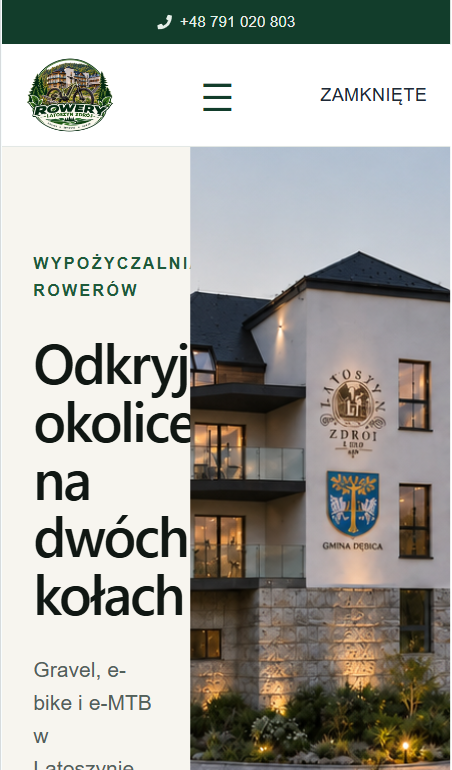
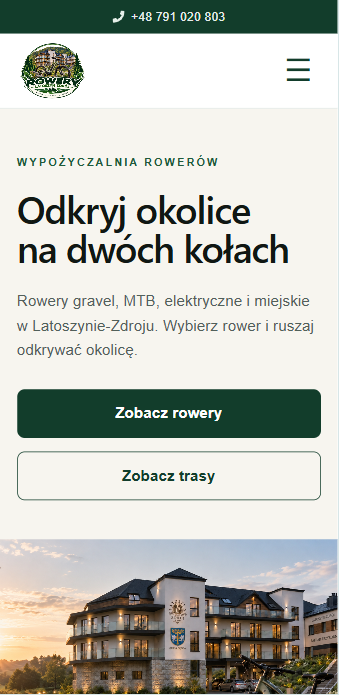
fix

diff --git a/src/styles/navbar.css b/src/styles/navbar.css
@@ -18,6 +18,11 @@
     justify-content: space-between;
 }
 
+
+/* =========================
+   LOGO
+========================= */
+
 .logo {
     display: flex;
     align-items: center;
@@ -28,6 +33,11 @@
         height: 48px;
         width: auto;
     }
+
+
+/* =========================
+   NAVIGATION
+========================= */
 
 .nav-links {
     display: flex;
@@ -46,13 +56,18 @@
             color: var(--primary);
         }
 
+
+/* =========================
+   CTA
+========================= */
+
 .nav-cta {
     padding: 12px 20px;
     border-radius: 10px;
     background: var(--primary);
     color: #10151b;
     font-size: 14px;
-    font-weight: 800;
+    font-weight: 500;
     transition: background 0.2s ease, transform 0.2s ease;
 }
 
@@ -64,9 +79,15 @@
 .nav-mobile-cta {
     display: none;
 }
+
+
+/* =========================
+   TO PROSTE
+========================= */
+
 .nav-process {
     color: var(--primary) !important;
-    font-weight: 700;
+    font-weight: 700 !important;
     background: transparent;
     padding: 0;
     border-radius: 0;
@@ -77,7 +98,10 @@
         background: transparent;
     }
 
-/* HAMBURGER */
+
+/* =========================
+   HAMBURGER
+========================= */
 
 .hamburger {
     display: none;
@@ -114,9 +138,13 @@
         transform: translateY(-7px) rotate(-45deg);
     }
 
-/* TABLET */
+
+/* =========================
+   TABLET
+========================= */
 
 @media (max-width: 950px) {
+
     .navbar-inner {
         width: min(100% - 36px, var(--container));
     }
@@ -132,22 +160,26 @@
     .nav-cta {
         padding: 11px 16px;
         font-size: 13px;
-    }
-}
-.nav-process {
-    color: var(--primary) !important;
-    font-weight: 700 !important;
-}
-
-    .nav-process:hover {
-        color: var(--primary-hover) !important;
+        font-weight: 500;
     }
 
+    .nav-process {
+        color: var(--primary) !important;
+        font-weight: 700 !important;
+    }
+
+        .nav-process:hover {
+            color: var(--primary-hover) !important;
+        }
+}
 
 
-/* MOBILE */
+/* =========================
+   MOBILE
+========================= */
 
 @media (max-width: 760px) {
+
     .navbar {
         height: 72px;
     }
@@ -209,6 +241,9 @@
                 color: var(--primary);
             }
 
+
+    /* MOBILE CTA */
+
     .nav-mobile-cta {
         display: flex !important;
         justify-content: center;
@@ -217,13 +252,16 @@
         padding: 14px !important;
         background: var(--primary);
         color: #10151b !important;
-        font-weight: 800 !important;
+        font-weight: 500 !important;
     }
 
         .nav-mobile-cta:hover {
             background: var(--primary-hover) !important;
             color: #10151b !important;
         }
+
+
+    /* MOBILE TO PROSTE */
 
     .nav-process {
         color: var(--primary) !important;
@@ -234,5 +272,3 @@
             color: var(--primary-hover) !important;
         }
 }
-
-
